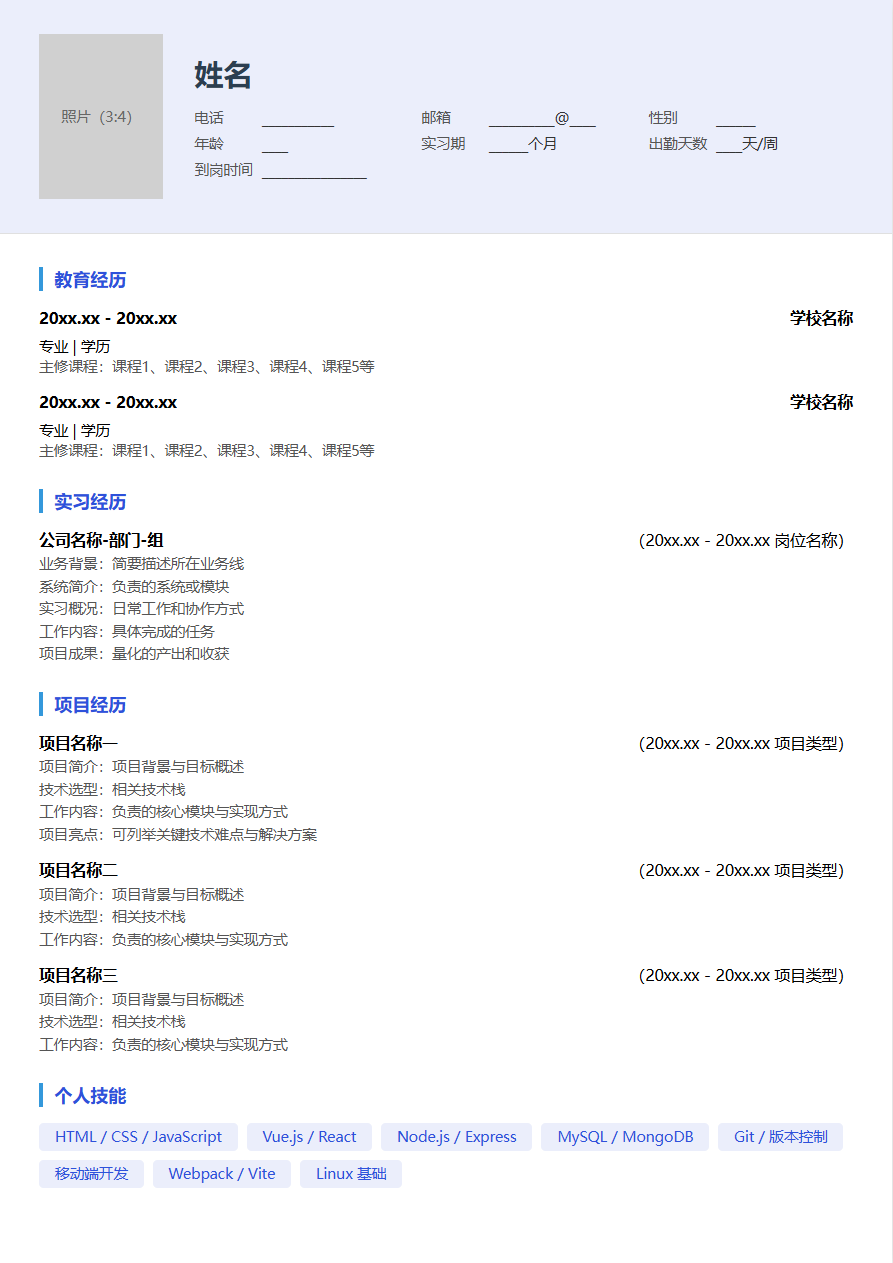
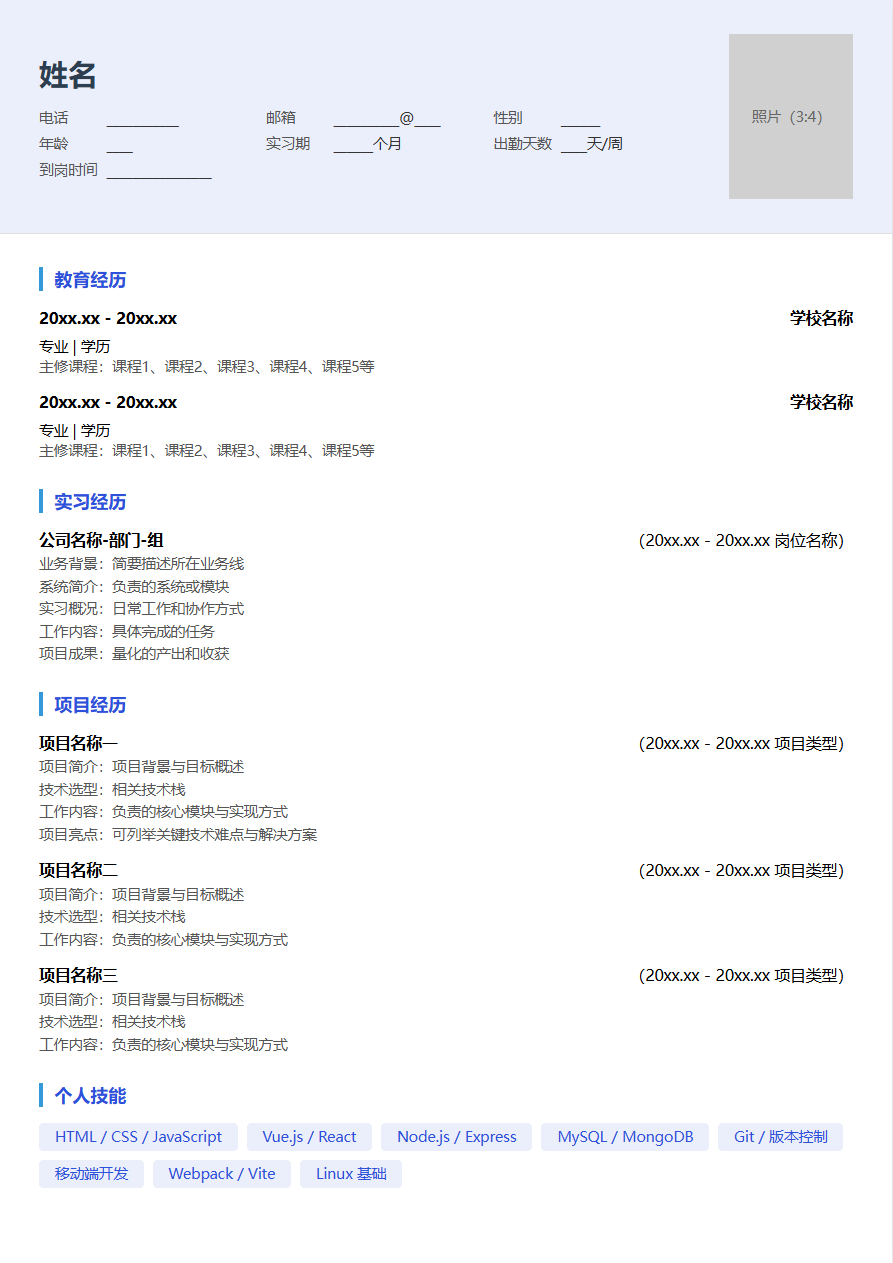
上下模板照片移至右侧，更新预览图
照片从左侧移至右侧，更符合简历常规布局

diff --git a/个人简历_上下结构模板.html b/个人简历_上下结构模板.html
@@ -170,9 +170,8 @@
 <body>
     <div class="resume">
 
-        <!-- ===== 顶部：头像 + 姓名 + 基本信息 ===== -->
+        <!-- ===== 顶部：姓名 + 基本信息 + 头像（右侧） ===== -->
         <div class="top-header">
-            <div class="avatar">照片（3:4）</div>
             <div class="header-info">
                 <div class="header-name">姓名</div>
                 <div class="info-grid">
@@ -206,6 +205,7 @@
                     </div>
                 </div>
             </div>
+            <div class="avatar">照片（3:4）</div>
         </div>
 
         <!-- ===== 主体内容 ===== -->
